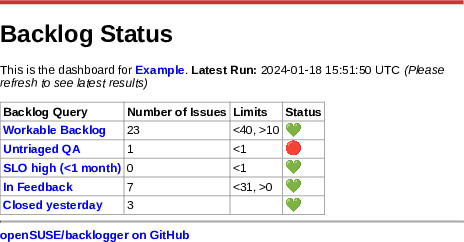
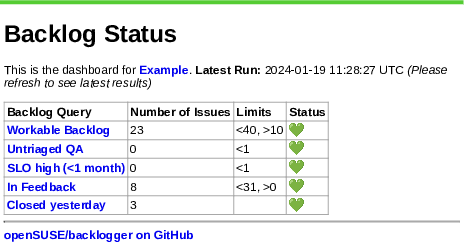
Deploying to gh-pages from @ openSUSE/backlogger@56a273dc31683d7eaa37073c0445b95e180b78b2 🚀

diff --git a/index.html b/index.html
@@ -5,12 +5,13 @@
 <!-- Facebook / Slack tags -->
 <meta property="og:title" content="Backlog Limits Checker Preview" />
 <meta property="og:url" content="https://github.com/openSUSE/backlogger" />
-<meta property="og:image" content="https://openSUSE.github.io/backlogger/preview.png?v=1705593113" />
+<meta property="og:image" content="https://openSUSE.github.io/backlogger/preview.png?v=1705663709" />
 <style>
 main {
     font-family: Verdana, Arial;
-    border-top: 5px solid #cc3333;
+    border-top: 5px solid #55cc33;
     margin: 0px 5px 5px 5px;
+    padding: 0 5px;
     background-color: white;
 }
 table {
@@ -34,7 +35,7 @@ a {
 <h1 id="backlog-status">Backlog Status</h1>
 
 <p>This is the dashboard for <a href="http://example.com">Example</a>.
-<strong>Latest Run:</strong> 2024-01-18 15:51:50 UTC
+<strong>Latest Run:</strong> 2024-01-19 11:28:27 UTC
 <em>(Please refresh to see latest results)</em></p>
 
 <table>
@@ -55,9 +56,9 @@ a {
     </tr>
     <tr>
       <td><a href="https://progress.opensuse.org/issues?query_id=576&amp;project_id=115">Untriaged QA</a></td>
-      <td>1</td>
+      <td>0</td>
       <td>&lt;1</td>
-      <td>🔴</td>
+      <td>💚</td>
     </tr>
     <tr>
       <td><a href="https://progress.opensuse.org/issues?query_id=544">SLO high (&lt;1 month)</a></td>
@@ -67,7 +68,7 @@ a {
     </tr>
     <tr>
       <td><a href="https://progress.opensuse.org/issues?query_id=520">In Feedback</a></td>
-      <td>7</td>
+      <td>8</td>
       <td>&lt;31, &gt;0</td>
       <td>💚</td>
     </tr>
